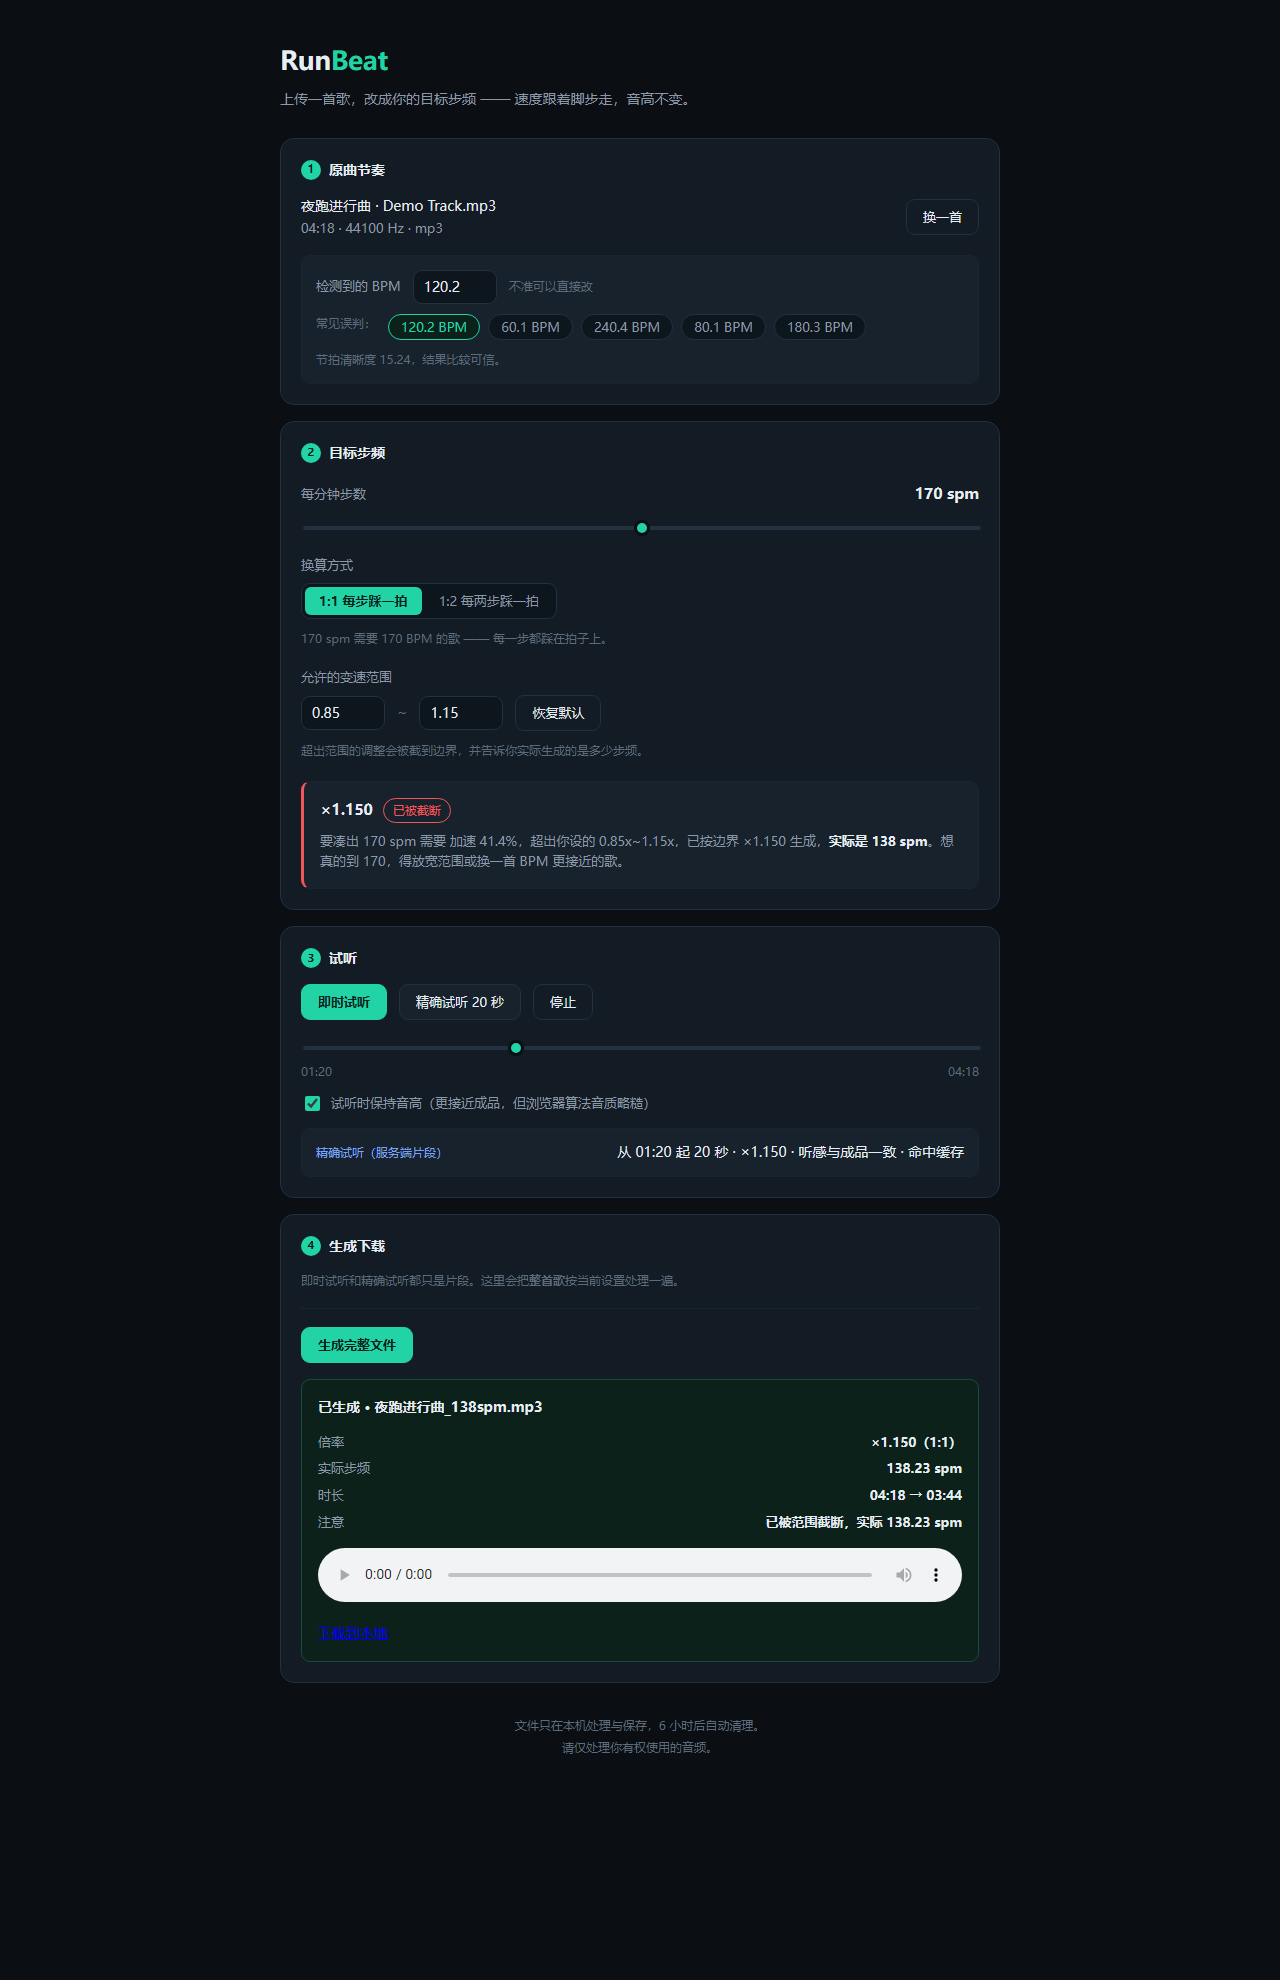
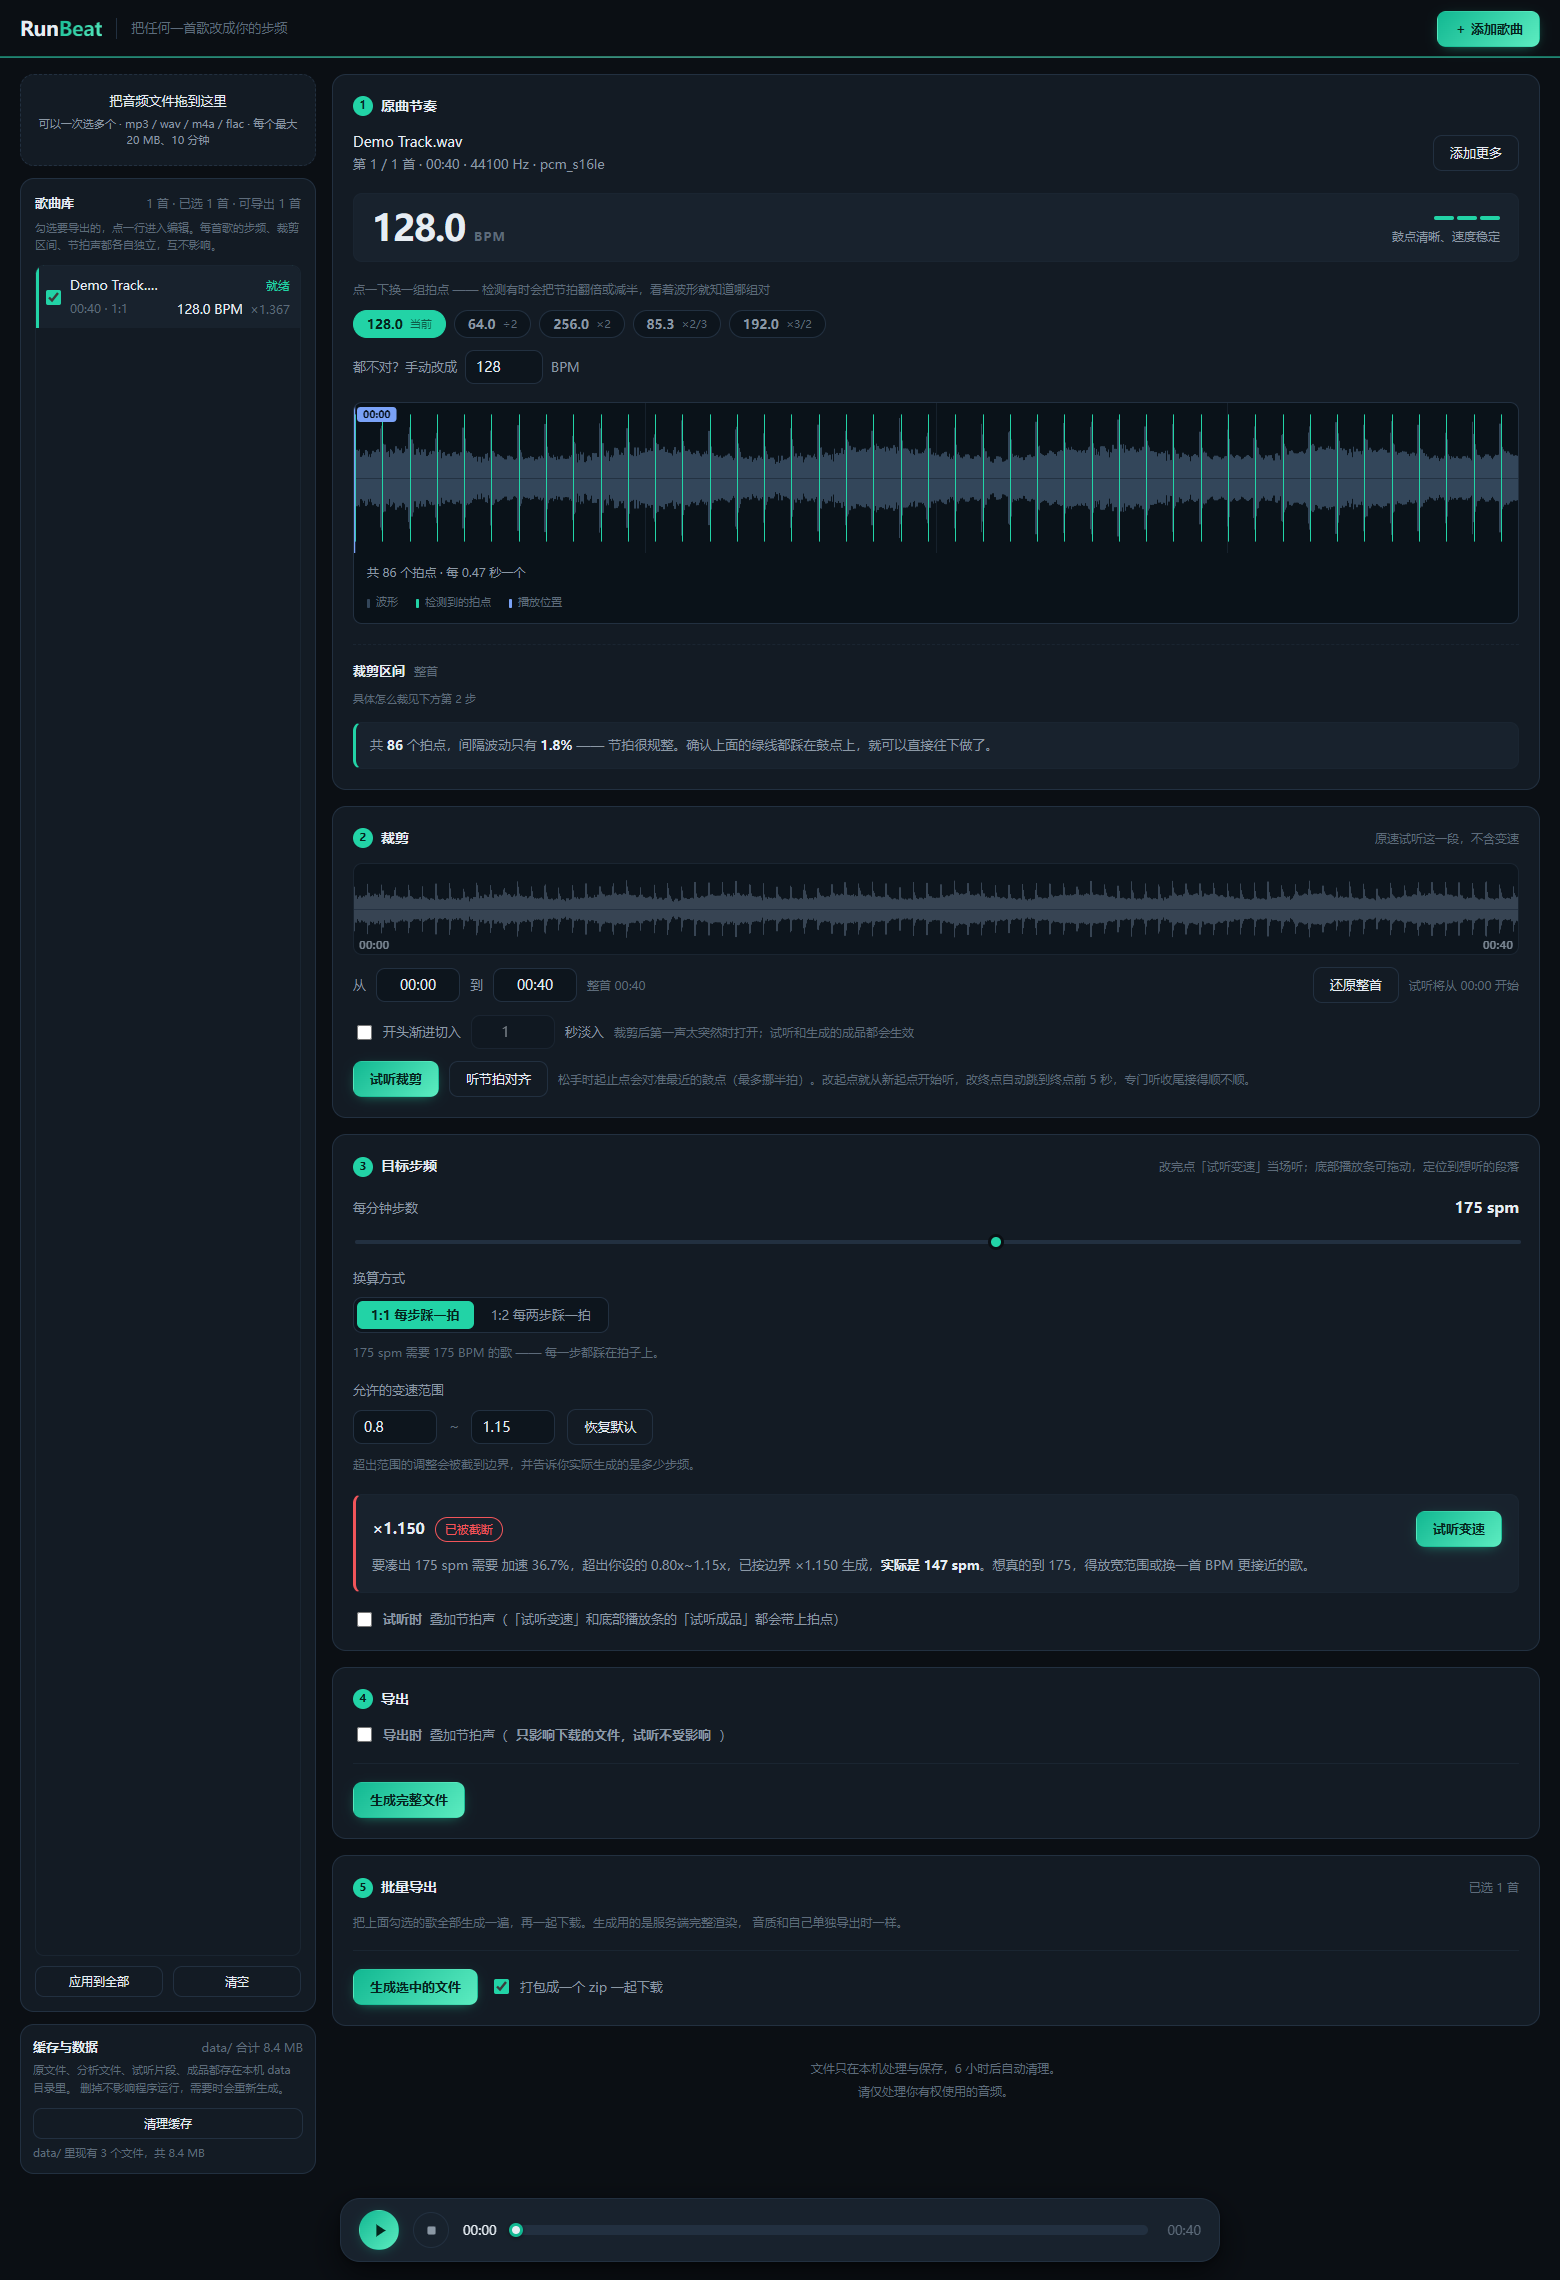
docs: 重截界面截图并在「界面流程」中引用

diff --git a/README.md b/README.md
@@ -104,6 +104,8 @@ Windows 下双击 `run.bat`，或手动启动：
 
 界面是**双栏布局**：左栏管文件和工具，右栏按流程走一遍。
 
+![RunBeat 主界面：左栏是上传区、歌曲库与缓存管理，右栏是五张流程卡，底部常驻悬浮播放条](docs/ui-preview-normal.png)
+
 **左栏 —— 上传与歌曲库**
 
 | 区域 | 做什么 |
@@ -121,6 +123,10 @@ Windows 下双击 `run.bat`，或手动启动：
 | 3 | 目标步频 | 拖步频、选 1:1 / 1:2 换算方式、设变速范围；下方状态条给自然度提示，「试听变速」当场听 |
 | 4 | 导出 | 生成完整成品并下载，可勾选叠加节拍声（只影响下载的文件，试听不受影响） |
 | — | 批量导出 | 把歌曲库里勾选的全部生成一遍，打包成一个 zip 一起下载 |
+
+步频超出你设的变速范围时，卡 3 不会闷声给你一个不一样的成品，而是明确说清「被截到哪儿、实际多少 spm」：
+
+![变速范围被截断：目标 175 spm 需要 ×1.367，超出上限 ×1.150，实际输出 147 spm](docs/ui-preview-clamped.png)
 
 **底部悬浮播放条**常驻窗口下方（不随内容滚动）：播放/暂停合一 + 停止 + 可拖的进度条 ——
 滚到任何一栏都能随时定位试听。
